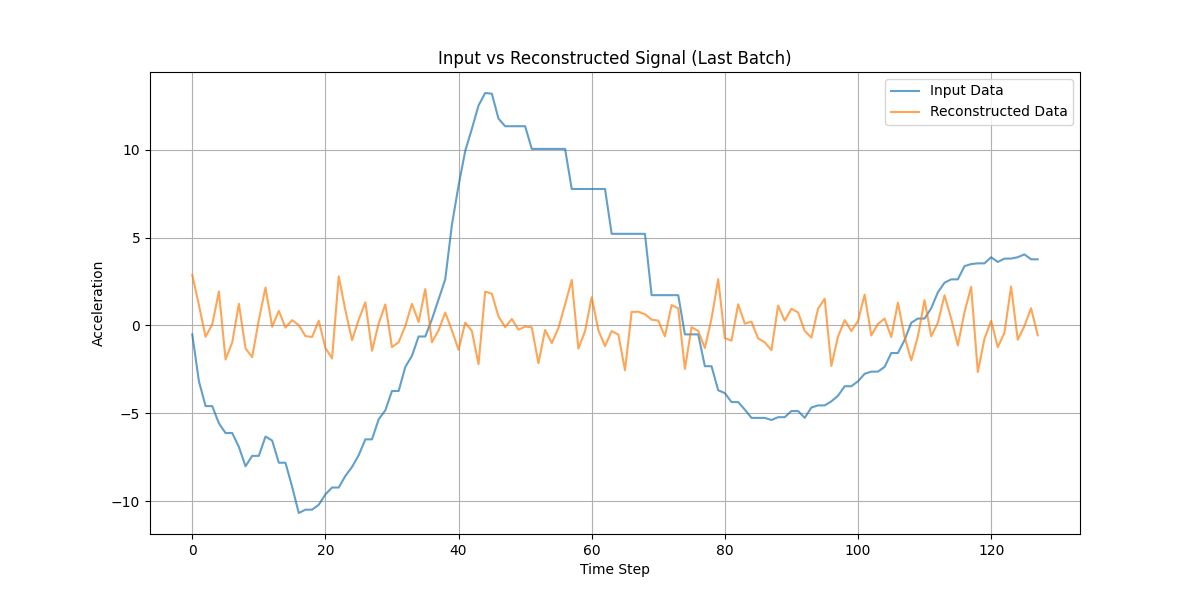
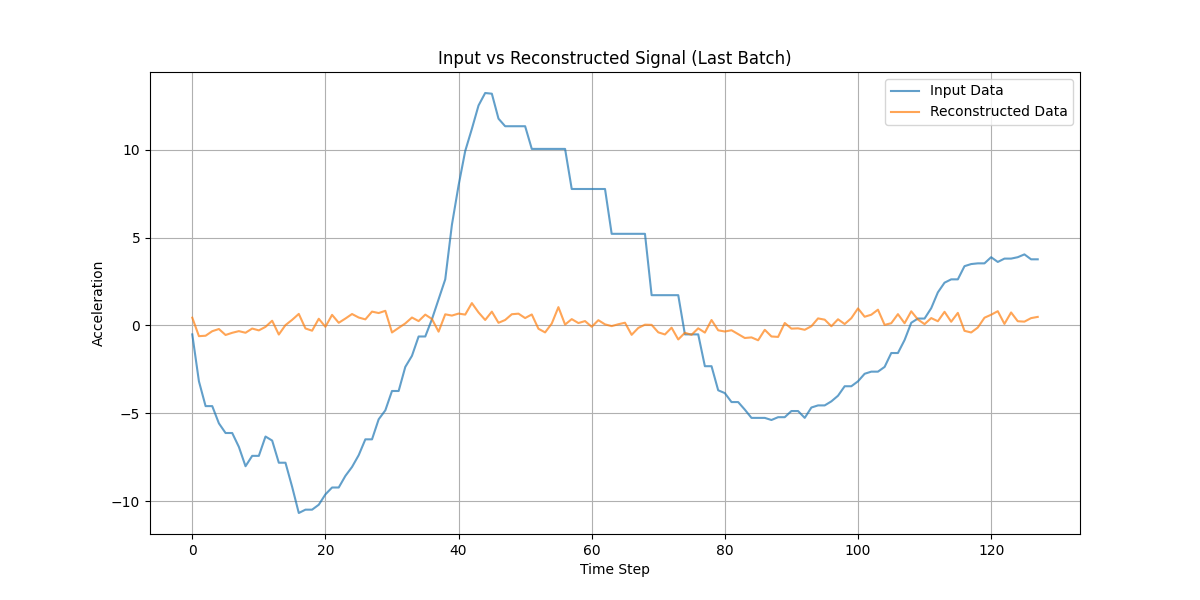
analysis works with new checkpoints

Changed region(s): [[0.1542, 0.48, 0.8633, 0.6]]

diff --git a/ai_analysis/app/analysis.py b/ai_analysis/app/analysis.py
@@ -3,7 +3,7 @@ from typing import Dict, Any, List
 import logging
 import tflite_runtime.interpreter as tflite
 import matplotlib.pyplot as plt
-
+from .model_management import model_manager
 import numpy as np
 import pandas as pd
 import time
@@ -51,16 +51,25 @@ def analyze_vibration_data(data: Dict[str, Any]) -> Dict[str, Any]:
     try:
         logger.info(f"Starting vibration analysis with {len(data)} points")
         debug = True
-        model_name = 'autoencoder_checkpoint.tflite'
-        
+
+        # get current model from model registry
+        model_registry = pd.read_json('data/checkpoints/model_registry.json')
+        current_model = model_manager.get_current_model()
+        if not current_model:
+            raise ValueError("No current model available")
+
+        # Use the complete path directly from the model info
+        model_path = current_model['path']
+        logger.info(f"Using model: {model_path}")
         # Load the TFLite model
-        interpreter = tflite.Interpreter(model_path=f'data/checkpoints/{model_name}')
+        interpreter = tflite.Interpreter(model_path=model_path)
         interpreter.allocate_tensors()
 
         # Get input and output tensors
         input_details = interpreter.get_input_details()
         input_shape = input_details[0]['shape']
-        sequence_length = input_shape[2]
+        sequence_length = input_shape[3] if len(input_shape) == 4 else input_shape[2]
+
         logger.info(f"Input tensor shape: {input_shape}")
         
         # Extract acceleration values and convert to numpy array
@@ -118,7 +127,7 @@ def analyze_vibration_data(data: Dict[str, Any]) -> Dict[str, Any]:
             'min_reconstruction_loss': float(min_loss),
             'mean_reconstruction_loss': float(mean_loss),
             'num_batches_processed': num_batches,
-            'analysis_model': model_name
+            'analysis_model': current_model['id']
         }
         
         logger.info(f"Analysis completed: {result}")
